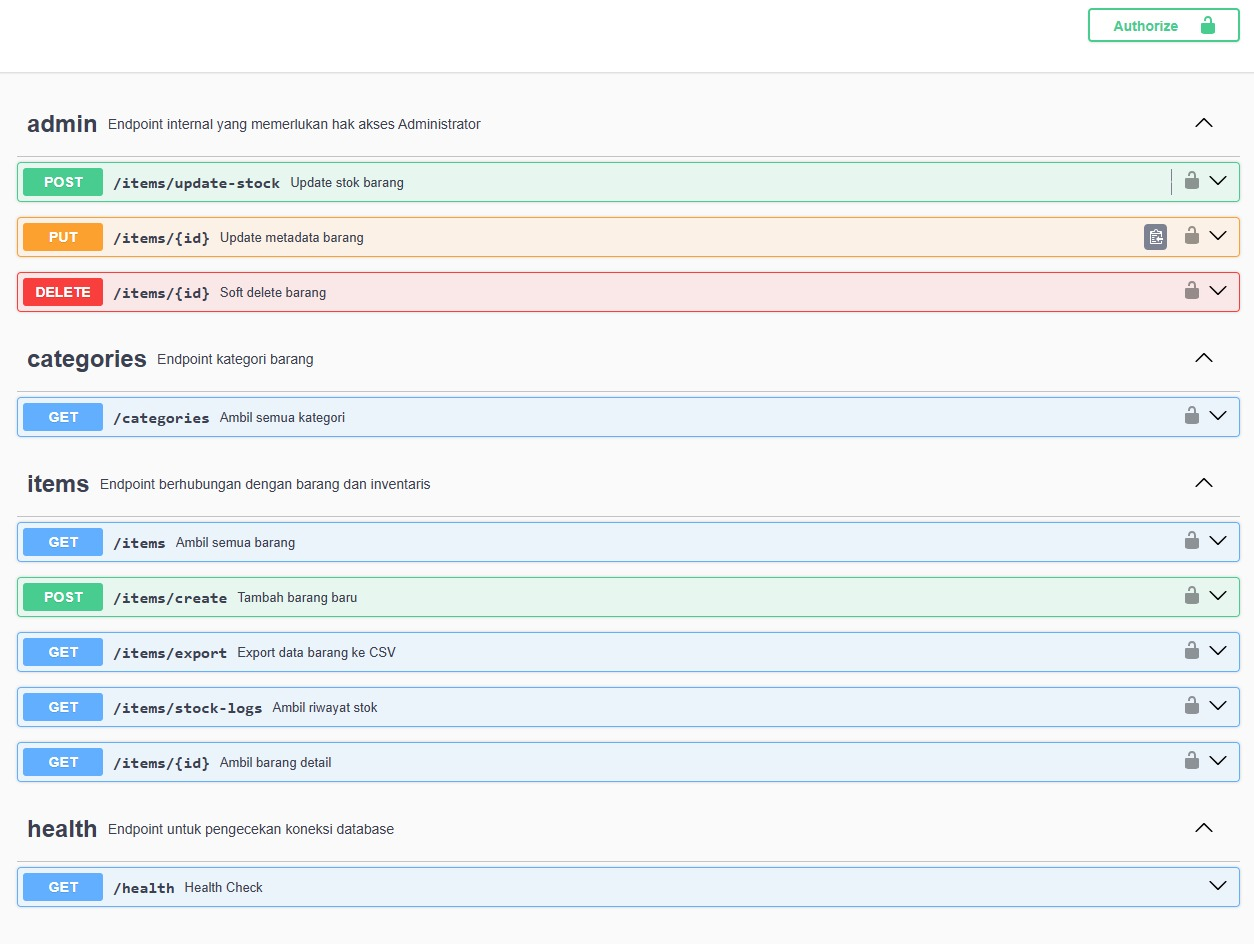
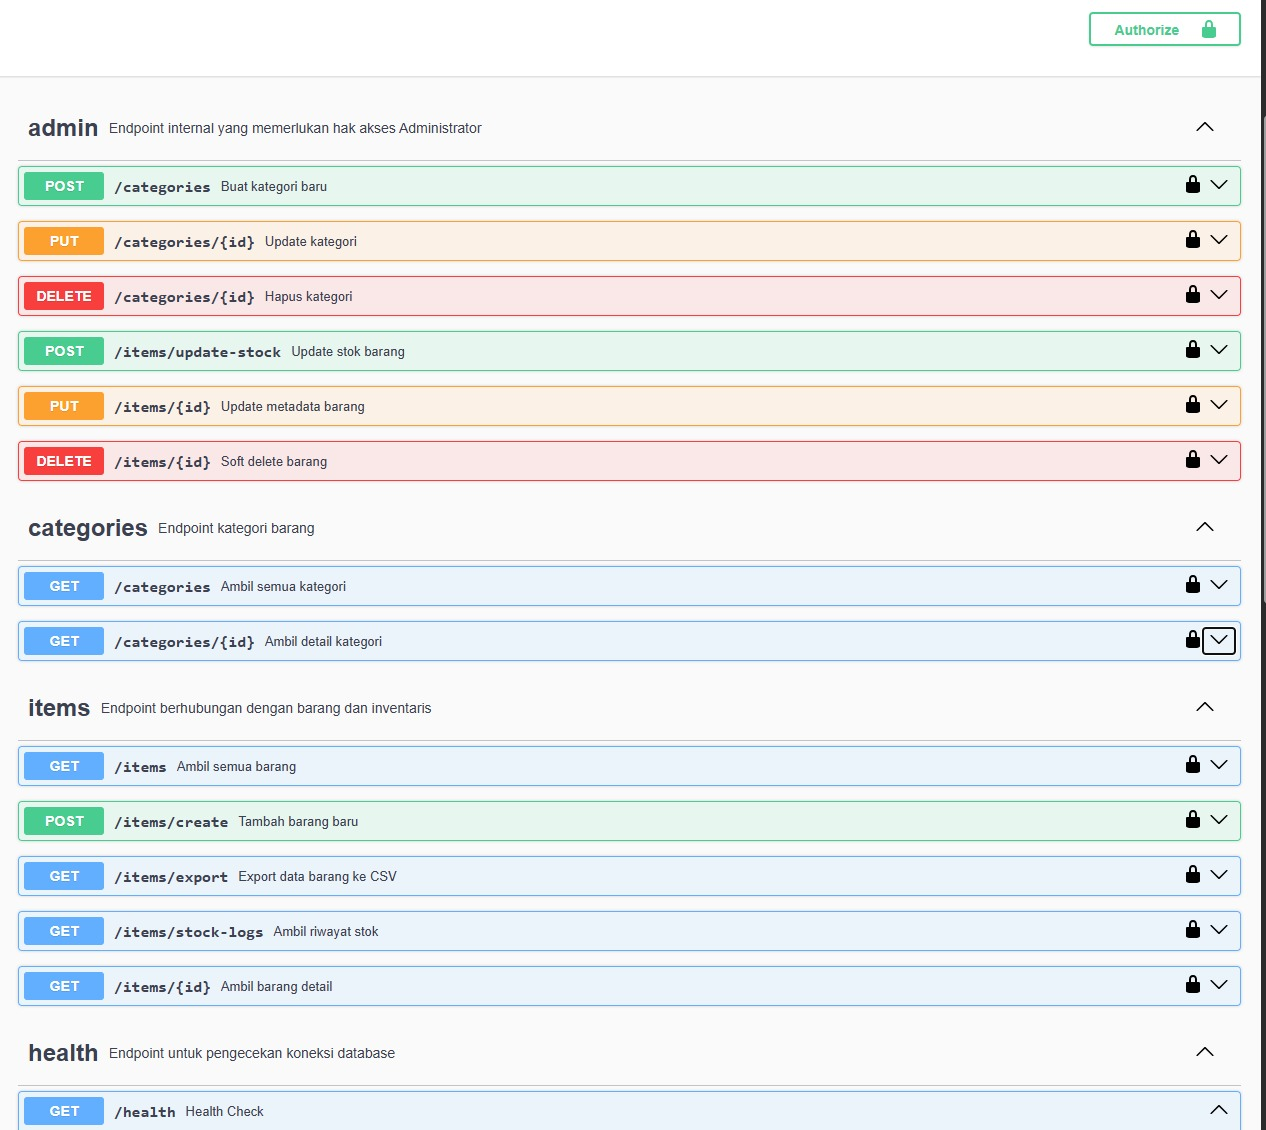
update readme and ss swagger

Changed region(s): [[0.0, 0.0, 1.0, 1.0]]

diff --git a/README.MD b/README.MD
@@ -136,6 +136,9 @@ Admin Only
 
 | Method | Endpoint            | Description       |
 | ------ | ------------------- | ----------------- |
+| PUT    | /categories/{id}    | Update kategori   |
+| DELETE | /categories/{id}    | delete kategori   |
+| POST   | /categories         | Tambah kategori   |
 | PUT    | /items/{id}         | Update barang     |
 | DELETE | /items/{id}         | Soft delete barang|
 | POST   | /items/update-stock | Update stok       |
